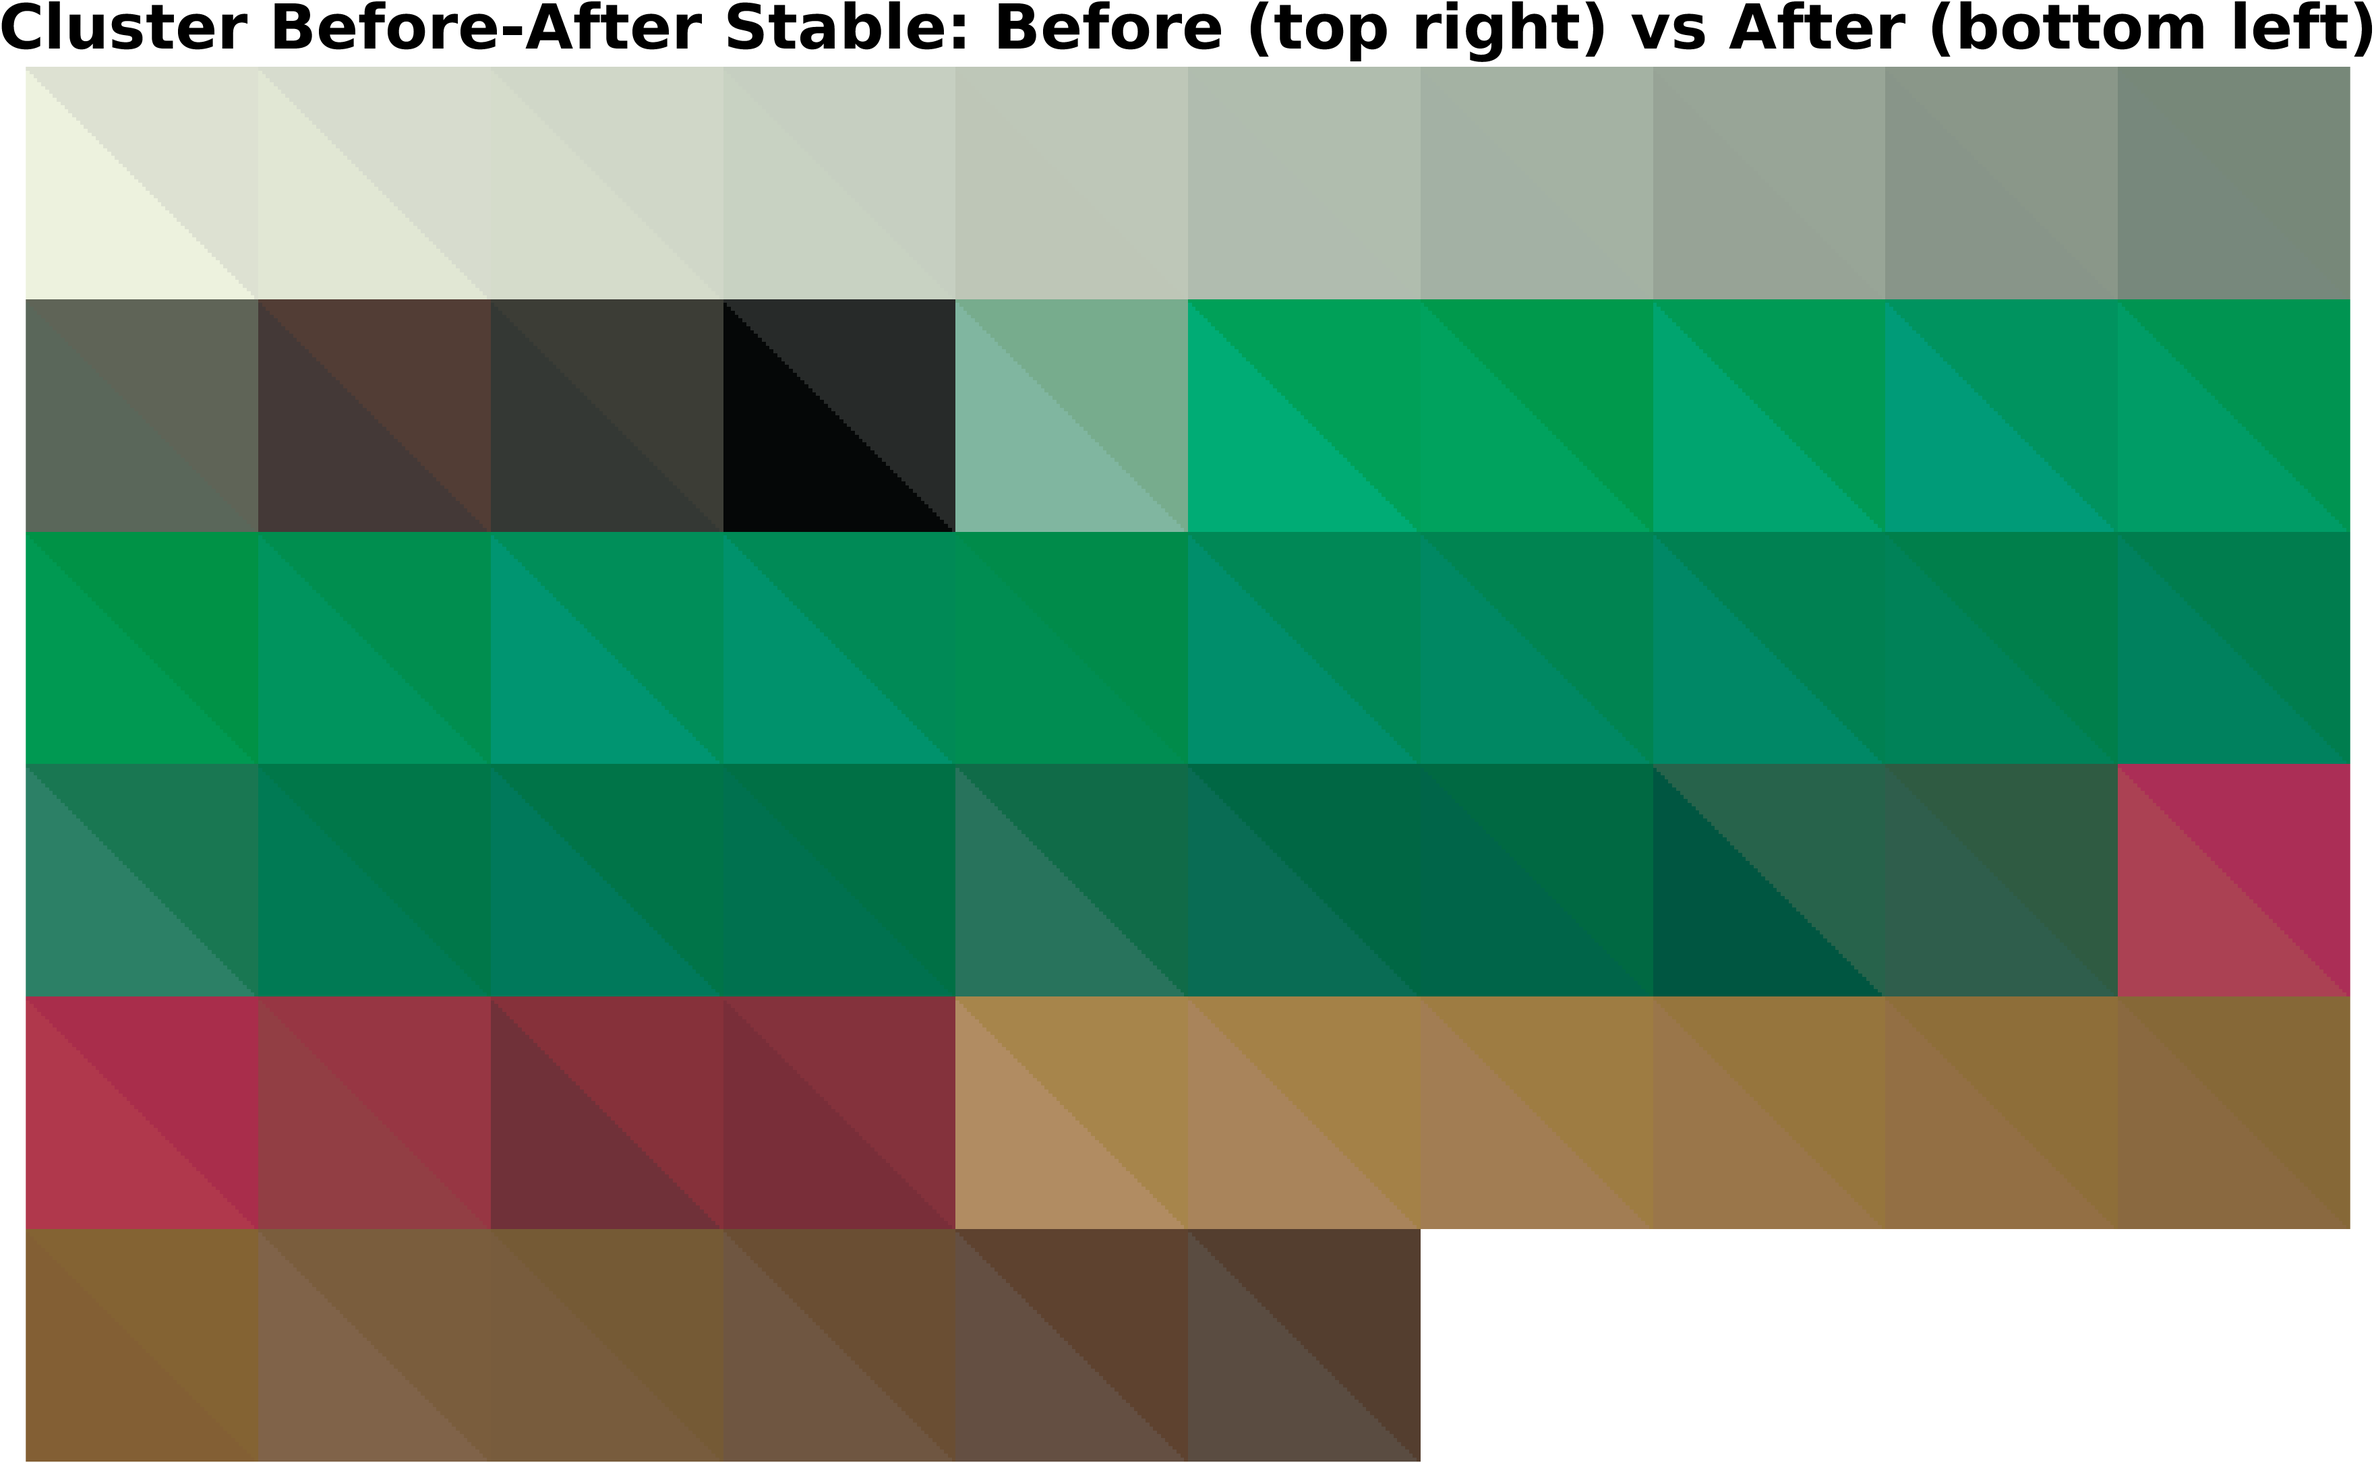
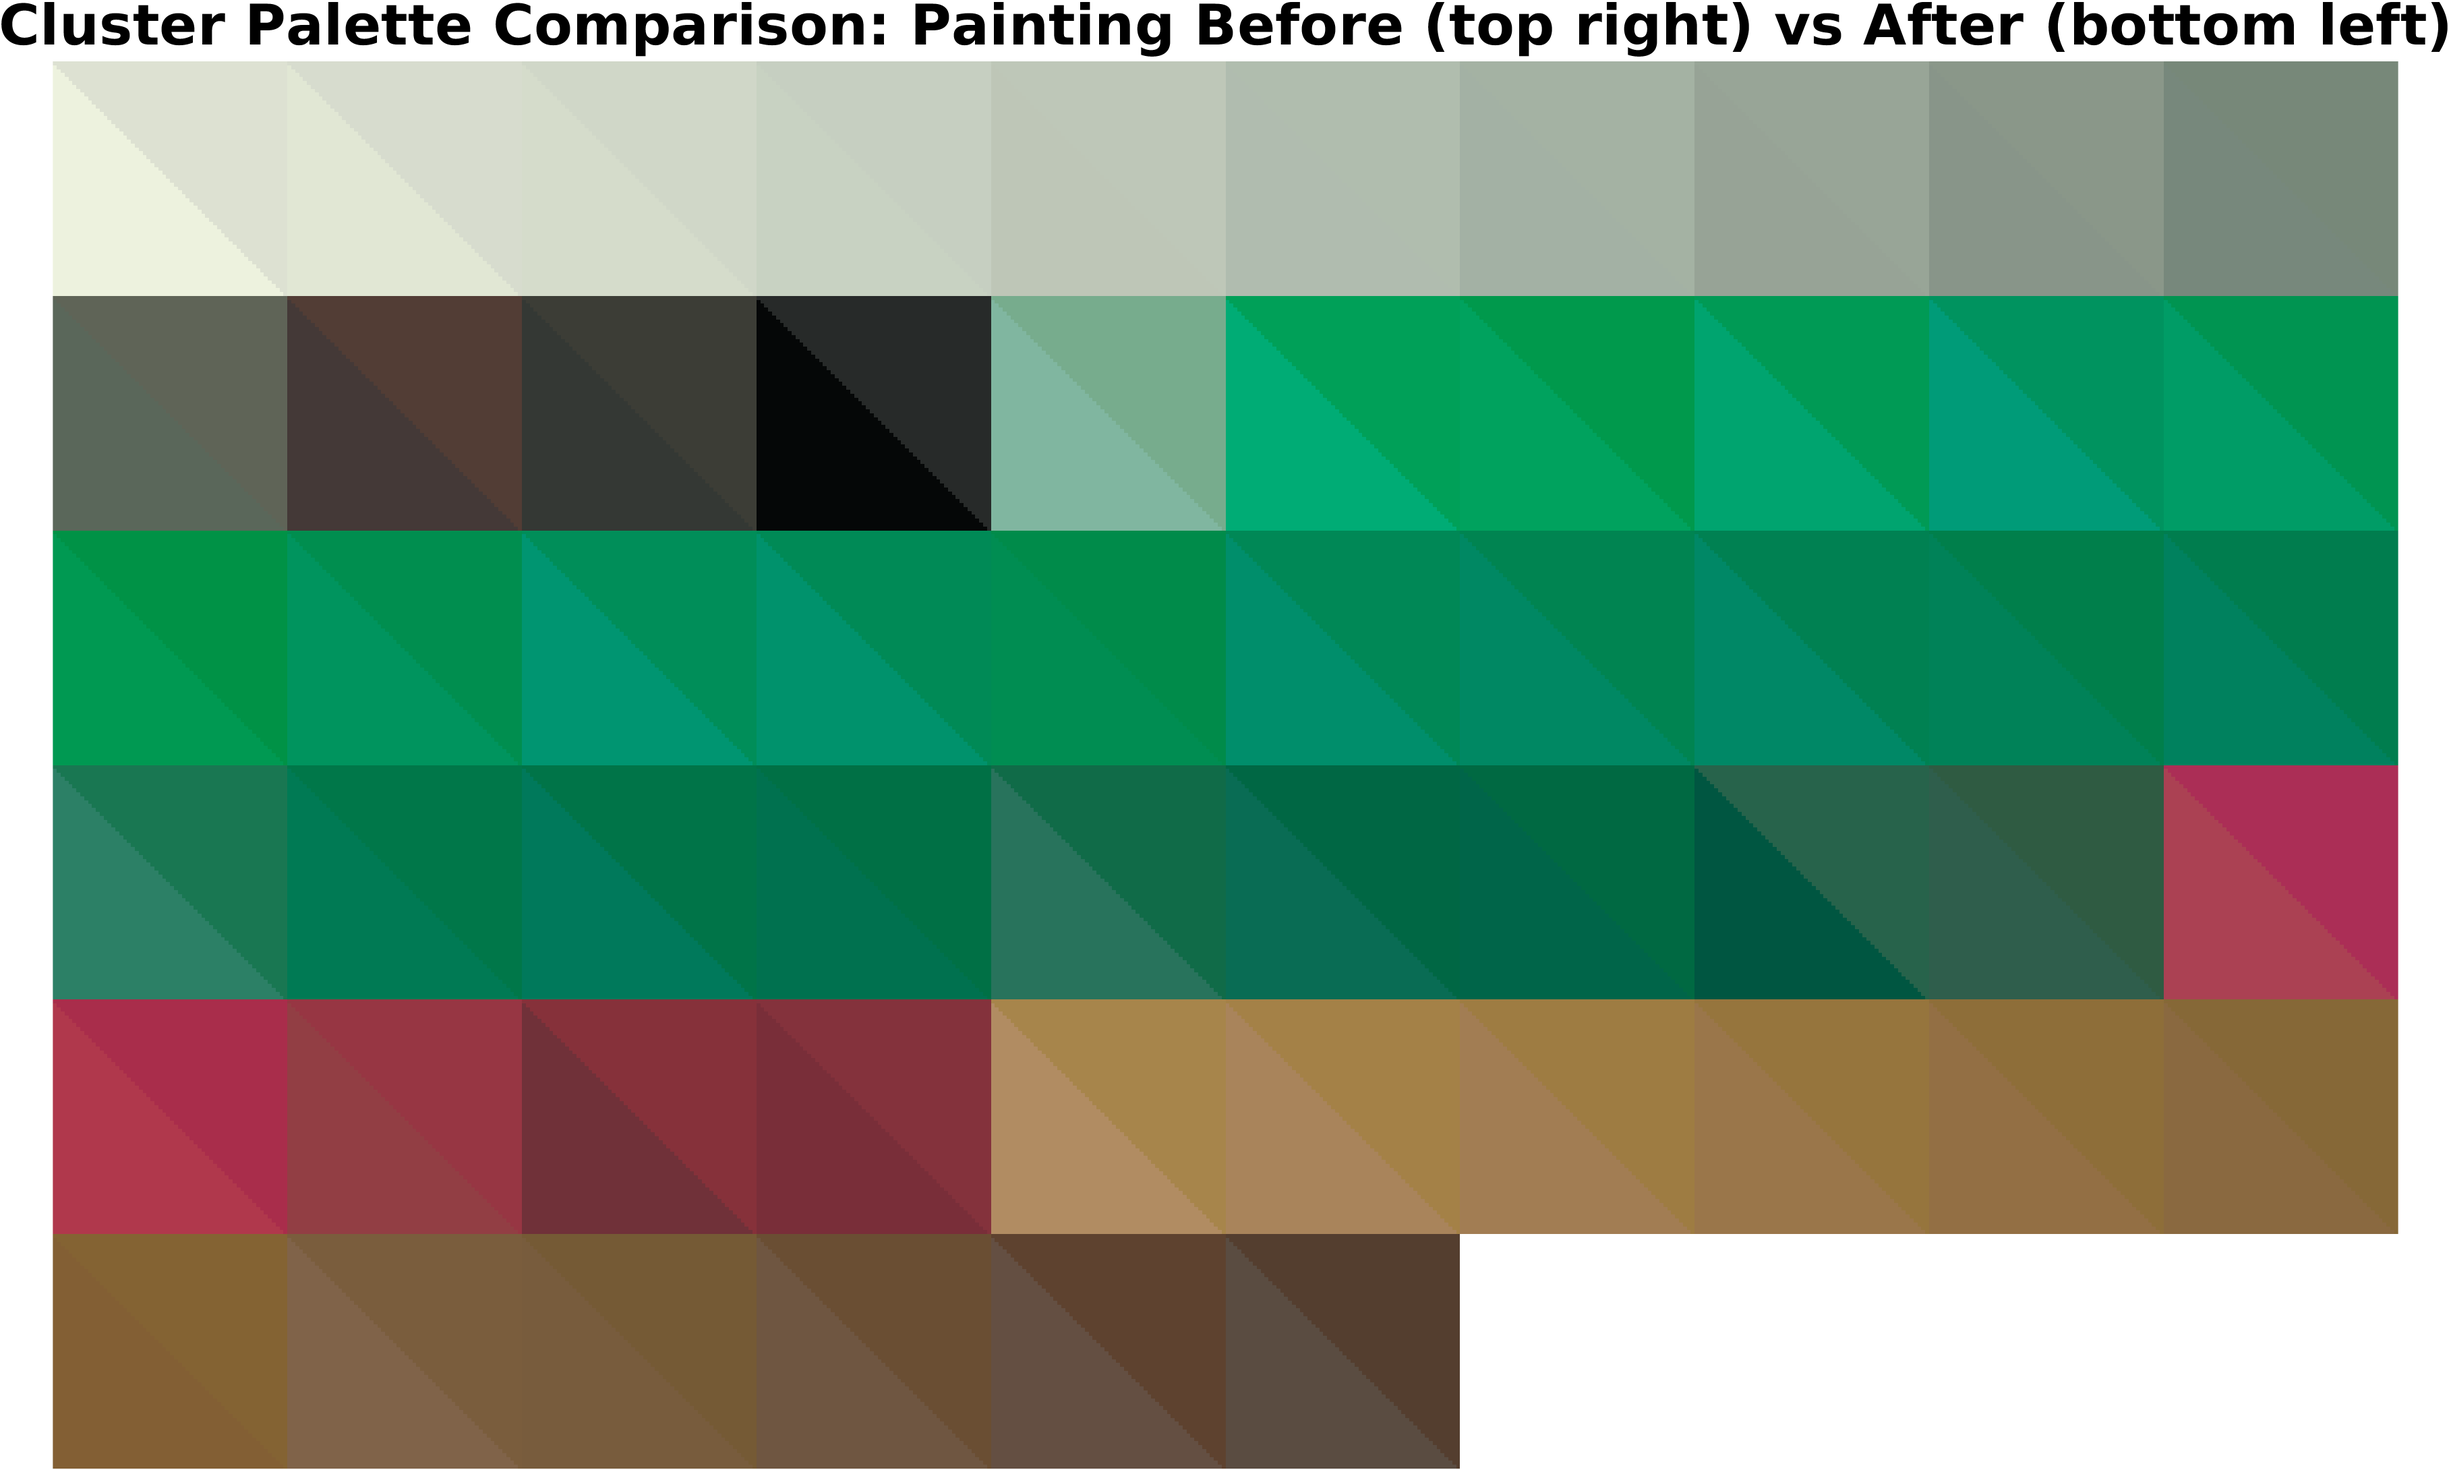
regen cactus delta e

diff --git a/code/matlab/colour_correction/a_extract_palette_film.m b/code/matlab/colour_correction/a_extract_palette_film.m
@@ -1,6 +1,6 @@
 clear; close all;
 
-%% === Paths ===
+% === Paths ===
 new_film_file = '/home/oem/eliza/data/xyz_lab_rgb/film/cactus_halogen_kodak_exp0.mat';  % NEW FILM
 painting_before_file = '/home/oem/eliza/data/xyz_lab_rgb/hyspex/cactus_reflectance_before_xyz.mat';
 cluster_metadata_file = '/home/oem/eliza/data/xyz_lab_rgb/clustered/cactus_spectral_cluster_metadata.mat';
@@ -100,7 +100,7 @@ imshow(img_diag);
 title('Cluster Palette Comparison: After Painting (top right) vs Film (bottom left)', ...
     'FontSize', 20, 'FontWeight', 'bold');
 
-exportgraphics(gcf, fullfile(save_dir, [film_base_name '_comparison_after_vs_film.png']), 'Resolution', 300);
+% exportgraphics(gcf, fullfile(save_dir, [film_base_name '_comparison_after_vs_film.png']), 'Resolution', 300);
 
 
 %%
@@ -160,4 +160,82 @@ imshow(img_diag);
 title('Cluster Palette Comparison: Painting Before (top right) vs Film (bottom left)', ...
     'FontSize', 20, 'FontWeight', 'bold');
 
-exportgraphics(gcf, fullfile(save_dir, [film_base_name '_comparison_before_vs_film.png']), 'Resolution', 300);
+% exportgraphics(gcf, fullfile(save_dir, [film_base_name '_comparison_before_vs_film.png']), 'Resolution', 300);
+
+
+%% === Diagonal Split Patch Plot (Before vs After) ===
+img_diag = ones(grid_h * patchSize, grid_w * patchSize, 3);
+for k = 1:nColors
+    row = floor((k - 1) / grid_w);
+    col = mod((k - 1), grid_w);
+    r_idx = (row * patchSize + 1):((row + 1) * patchSize);
+    c_idx = (col * patchSize + 1):((col + 1) * patchSize);
+
+    patch_before = repmat(reshape(srgb_before_clustered(k,:), 1, 1, 3), patchSize, patchSize, 1);
+    patch_after  = repmat(reshape(srgb_after(k,:), 1, 1, 3), patchSize, patchSize, 1);
+
+    [X, Y] = meshgrid(1:patchSize, 1:patchSize);
+    diag_mask = Y > X;
+
+    patch = patch_before;
+    for c = 1:3
+        temp = patch(:,:,c);
+        temp2 = patch_after(:,:,c);
+        temp(diag_mask) = temp2(diag_mask);
+        patch(:,:,c) = temp;
+    end
+
+    img_diag(r_idx, c_idx, :) = patch;
+end
+
+figure('Position', [100 100 1200 1100]);
+tiledlayout(1,1, 'Padding','compact', 'TileSpacing','compact');
+nexttile;
+imshow(img_diag);
+title('Cluster Palette Comparison: Painting Before (top right) vs After (bottom left)', ...
+    'FontSize', 20, 'FontWeight', 'bold');
+
+exportgraphics(gcf, fullfile(save_dir, [film_base_name '_palette_before_vs_after.png']), 'Resolution', 300);
+
+%%
+%% === Compute Delta E₀₀ Between Painting Before and After Clusters ===
+DE_before_after = deltaE2000(lab_before_clustered, painting_data.lab_after_clustered);
+
+% Convert to grid format
+dE_grid_before_after = zeros(grid_h, grid_w);
+for k = 1:nColors
+    row = floor((k-1) / grid_w) + 1;
+    col = mod((k-1), grid_w) + 1;
+    dE_grid_before_after(row, col) = DE_before_after(k);
+end
+
+% Plot
+figure('Position', [100 100 800 700]);
+imagesc(dE_grid_before_after);
+axis image off;
+colormap(jet(256));
+clim([0 10]);
+
+cb = colorbar;
+cb.Label.String = '\DeltaE_{00}';
+cb.Label.FontSize = 16;
+cb.Label.FontWeight = 'bold';
+cb.FontSize = 16;
+cb.FontWeight = 'bold';
+
+title('\DeltaE_{00} Between Painting Before vs After', ...
+    'FontSize', 18, 'FontWeight', 'bold');
+
+% Overlay values
+for k = 1:nColors
+    row = floor((k-1)/grid_w) + 1;
+    col = mod((k-1), grid_w) + 1;
+    text(col, row, sprintf('%.1f', DE_before_after(k)), ...
+        'HorizontalAlignment','center', 'Color','w', ...
+        'FontSize', 12, 'FontWeight', 'bold');
+end
+
+% Save
+exportgraphics(gcf, ...
+    fullfile(save_dir, [film_base_name '_palette_deltaE_before_vs_after.png']), ...
+    'Resolution', 300);

diff --git a/code/matlab/colour_correction/a_palette_extraction_gpu.m b/code/matlab/colour_correction/a_palette_extraction_gpu.m
@@ -1,16 +1,16 @@
 clear; close all;
 
 %% === File paths ===
-% painting_before_binned_file = '/home/oem/eliza/data/xyz_lab_rgb/hyspex/cactus_reflectance_before_xyz.mat';
-% painting_after_binned_file  = '/home/oem/eliza/data/xyz_lab_rgb/hyspex/cactus_reflectance_after_reg_xyz.mat';
-% painting_after_ref_file     = '/home/oem/eliza/data/reflectance/registered/cactus_reflectance_after_reg.mat';
-% film_file                   = '/home/oem/eliza/data/xyz_lab_rgb/film/cactus_halogen_kodak_exp0.mat';
-% change_mask_file            = '/home/oem/eliza/data/xyz_lab_rgb/change_gt/cactus_change_mask.mat';
-painting_before_binned_file = '/home/oem/eliza/data/xyz_lab_rgb/hyspex/yoda_reflectance_before_xyz.mat';
-painting_after_binned_file  = '/home/oem/eliza/data/xyz_lab_rgb/hyspex/yoda_reflectance_after_reg_xyz.mat';
-painting_after_ref_file     = '/home/oem/eliza/data/reflectance/registered/yoda_reflectance_after_reg.mat';
-film_file                   = '/home/oem/eliza/data/xyz_lab_rgb/film/yoda_halogen_fuji_exp0.mat';
-change_mask_file            = '/home/oem/eliza/data/xyz_lab_rgb/change_gt/yoda_change_mask.mat';
+painting_before_binned_file = '/home/oem/eliza/data/xyz_lab_rgb/hyspex/cactus_reflectance_before_xyz.mat';
+painting_after_binned_file  = '/home/oem/eliza/data/xyz_lab_rgb/hyspex/cactus_reflectance_after_reg_xyz.mat';
+painting_after_ref_file     = '/home/oem/eliza/data/reflectance/registered/cactus_reflectance_after_reg.mat';
+film_file                   = '/home/oem/eliza/data/xyz_lab_rgb/film/cactus_halogen_kodak_exp0.mat';
+change_mask_file            = '/home/oem/eliza/data/xyz_lab_rgb/change_gt/cactus_change_mask.mat';
+% painting_before_binned_file = '/home/oem/eliza/data/xyz_lab_rgb/hyspex/yoda_reflectance_before_xyz.mat';
+% painting_after_binned_file  = '/home/oem/eliza/data/xyz_lab_rgb/hyspex/yoda_reflectance_after_reg_xyz.mat';
+% painting_after_ref_file     = '/home/oem/eliza/data/reflectance/registered/yoda_reflectance_after_reg.mat';
+% film_file                   = '/home/oem/eliza/data/xyz_lab_rgb/film/yoda_halogen_fuji_exp0.mat';
+% change_mask_file            = '/home/oem/eliza/data/xyz_lab_rgb/change_gt/yoda_change_mask.mat';
 
 
 rng(42);
